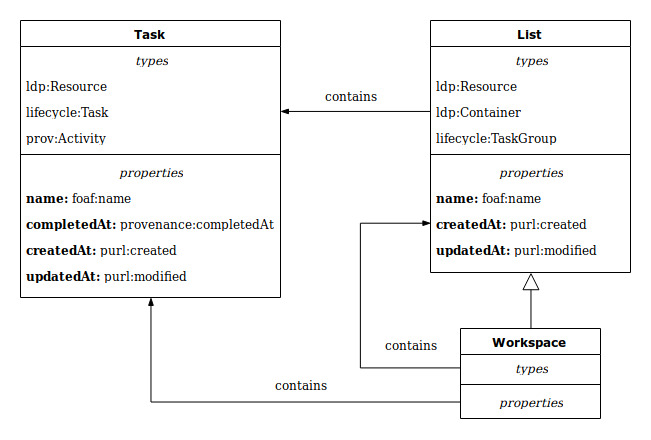
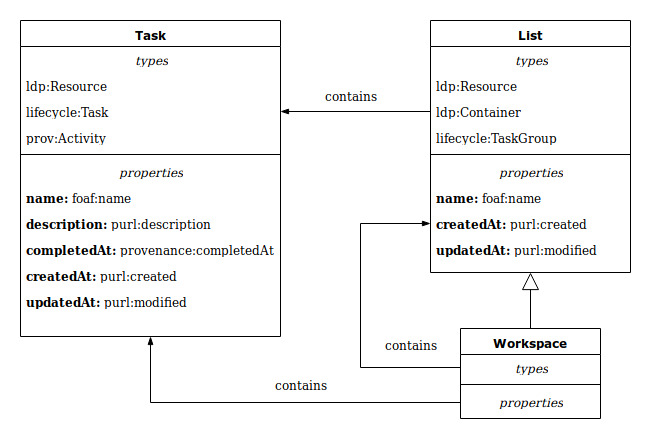
Update docs adding description to schema

diff --git a/docs/README.md b/docs/README.md
@@ -40,6 +40,7 @@ Data is modeled using 3 classes: Task, List and Workspace. When using Solid auth
 | lifecycle  | http://purl.org/vocab/lifecycle/schema# |
 | prov       | https://www.w3.org/ns/prov#             |
 | provenance | http://purl.org/net/provenance/ns#      |
+| purl       | http://purl.org/dc/terms/               |
 
 ![Data schema](Classes.jpg)
 
@@ -56,6 +57,7 @@ Properties:
 | Name        | RDF type                 | Description                           |
 | ----------- | ------------------------ | ------------------------------------- |
 | name        | `foaf:name`              | Task name.                            |
+| description | `purl:description`       | Task description.                     |
 | completedAt | `provenance:completedAt` | Date of completion of the task. If the task hasn't been completed, this property will be missing. |
 | createdAt   | `purl:created`           | Date of creation of the task.         |
 | updatedAt   | `purl:modified`          | Last date when the task was modified. |
